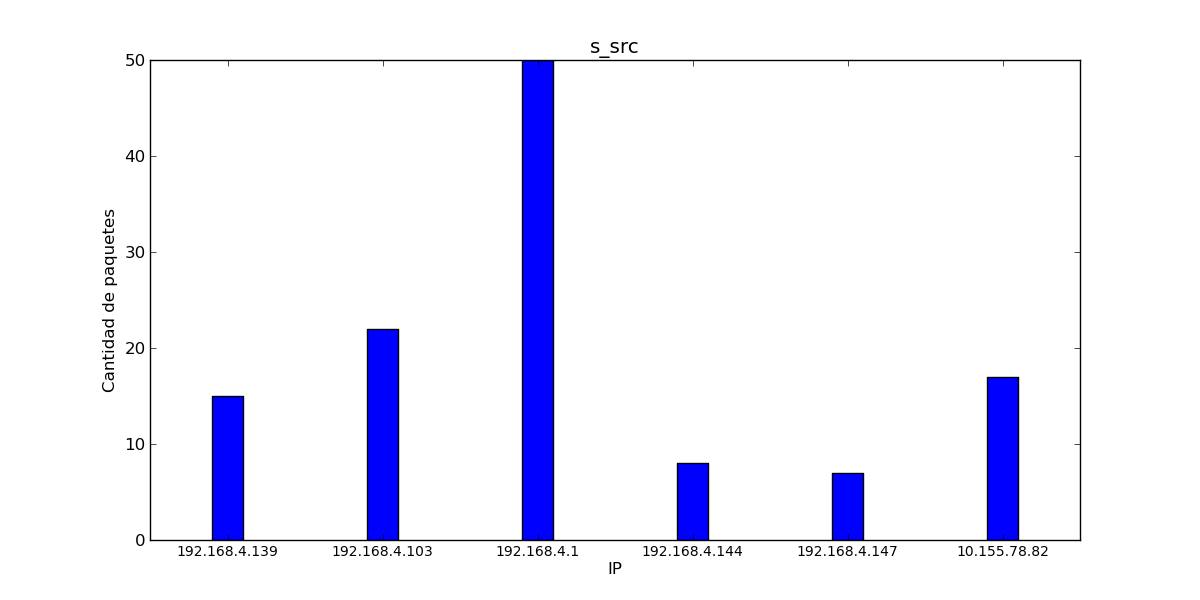
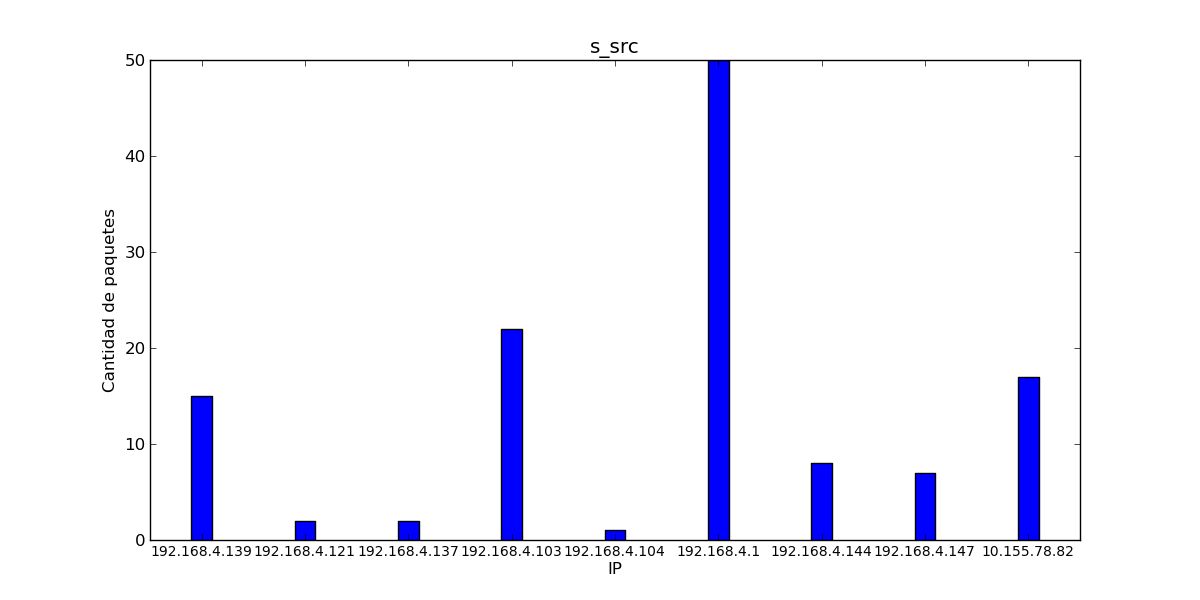
agrego ploteo del grafo de la red

Changed region(s): [[0.1233, 0.09, 0.8942, 0.93]]

diff --git a/arp_analysis_tool.py b/arp_analysis_tool.py
@@ -4,6 +4,7 @@ import sys;
 import time;
 import math;
 import matplotlib.pyplot as plt;
+import pydot;
 
 def main():
   s_src, s_dst = read_data()
@@ -13,6 +14,7 @@ def main():
   hist, info, entropy = compute_source_indicators(s_dst)
   print_indicators('s_dst', hist, info, entropy)
   plot_histogram('s_dst', hist)
+  plot_network(s_src, s_dst)
 
 def read_data():
   s_src, s_dst = [], []
@@ -37,7 +39,8 @@ def print_indicators(source, hist, info, entropy):
   print ""
 
 def plot_histogram(source, hist):
-  hist = { k:v for (k,v) in hist.iteritems() if 2 < v }
+  if len(hist) > 10:
+    hist = { k:v for (k,v) in hist.iteritems() if 2 < v }
   x, y = [4 * i for i in range(len(hist))], hist.values()
   labels = hist.keys()
   f = plt.figure(source, [12, 6])
@@ -48,6 +51,24 @@ def plot_histogram(source, hist):
   plt.xlabel("IP")
   plt.ylabel("Cantidad de paquetes")
   f.savefig('imgs/{source}.png'.format(source=source))
+
+def plot_network(s_src, s_dst):
+  graph = pydot.Dot(graph_type='digraph')
+  nodes = {}
+  for ip in set(s_src + s_dst):
+    pieces = ip.split('.')
+    label = '.'.join(pieces[0:2]) + '\n' + '.'.join(pieces[2:4])
+    nodes[ip] = pydot.Node(label)
+  edges = {}
+  for i in range(len(s_src)):
+    if not (s_src[i], s_dst[i]) in edges:
+      edges[(s_src[i], s_dst[i])] = 0
+    edges[(s_src[i], s_dst[i])] += 1
+  for (src_ip, dst_ip) in edges:
+    if not(len(nodes) > 10) or edges[(src_ip, dst_ip)] > 2:
+      graph.add_edge(pydot.Edge(nodes[src_ip], nodes[dst_ip],
+        label=edges[(src_ip, dst_ip)], fontsize="8.0", color="blue"))
+  graph.write_png('imgs/red.png')
 
 def compute_histogram(ips):
   hist = {}
